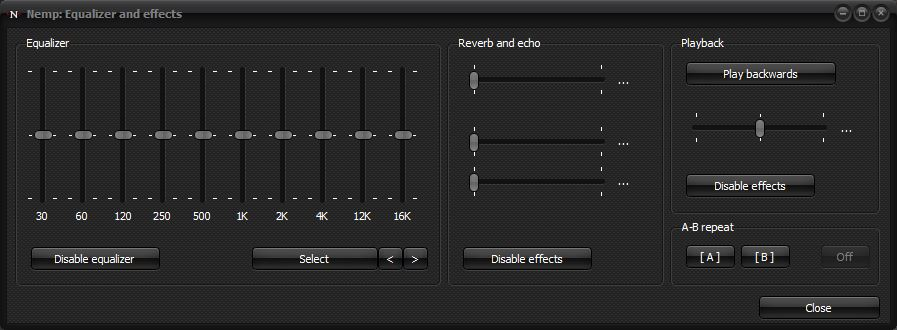
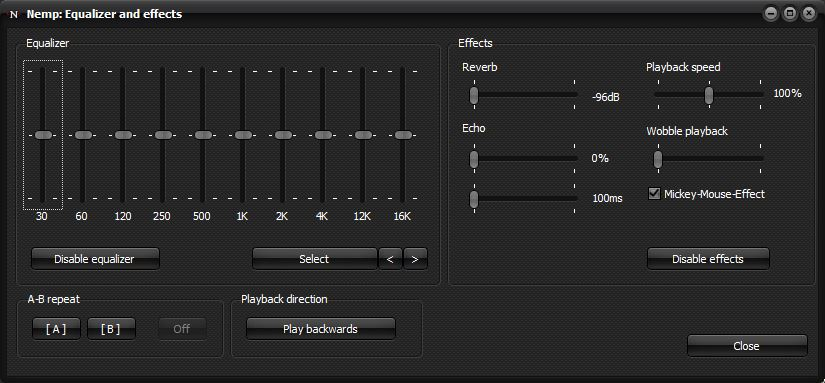
Added effect "wobble playback"

diff --git a/src-help/nemp-help-en.tex b/src-help/nemp-help-en.tex
@@ -299,13 +299,13 @@ With the \textbf{Equalizer} you can adjust the playback. But that's not much mor
 \includegraphics[width=0.6\textwidth]{eq.jpg} 
 \end{center}
 
-The same applies to the \textbf{effects}. A little bit of reverb and echo can be added and the playback speed can be increased or decreased. Whether a Mickey Mouse effect occurs or not can be configured in the settings. To change the behavior, it is necessary to restart playback.
+The same applies to the \textbf{effects}. A little bit of reverb and echo can be added and the playback speed can be increased or decreased. Since Nemp 4.12 the \emph{Micky-Mouse-Effect} can be switched on and off directly. Also, since version 4.12 there's the \gf{Wobble playback} effect, which was previously only implemented as a hidden feature as a warning for low battery.
 
 \begin{tipp}
 Right-clicking on a controller brings it back to the 0-position.
 \end{tipp}
 
-Another gimmick is the \textbf{reverse playing} of the current title, and the \textbf{A-B-repeat}, which repeats a certain section of the current title in a loop. Clicking on A sets the start point, clicking on B sets the end point, and pressing X deletes both so that the playback continues normally.
+Another gimmick is the \textbf{reverse playback} of the current title, and the \textbf{A-B-repeat}, which repeats a certain section of the current title in a loop. Clicking on A sets the start point, clicking on B sets the end point, and pressing X deletes both so that the playback continues normally.
 
 \begin{tipp}
 If you have set the start point A and end point B, you can also move the knobs in the control panel of the main window.
@@ -1058,13 +1058,11 @@ Streams that are not encoded in Mp3 format cannot be recorded.
 
 \subsubsection{Effects}
 \begin{itemize}
-\item \textbf{On changing speed.} When changing the speed, the simple method automatically changes the pitch. That leads to the fast, beeping voices I call \gf{Micky-Mouse effect}. This effect can be prevented if desired. A change only takes effect with the next played title.
-
 \item \textbf{Reset equalizer/effects.} Depending on the setting selected at this point, the effects and equalizer settings will be forgotten when Nemp is restarted and reset to the default setting or not. The default setting retains the equalizer setting, but resets the effects back to \emph{off}.
 
 \item \textbf{Jingles.} Pressing the \texttt{F9} key (and holding it down) will play an additional title. This playback is stopped immediately when the button is released. The volume of the actual playback can be reduced.
 
-\item \textbf{Walkman mode.} A silly little gimmick. Some \gf{older} people might still know the Walkmans (or \emph{portable cassette players} from other brands). They started to flutter when the battery was low, as the tape no longer ran at constant speed. 
+\item \textbf{Walkman mode.} A silly little gimmick. Some \gf{older} people might still know the Walkmans (or \emph{portable cassette players} from other brands). They started to wobble when the battery was low, as the tape no longer ran at constant speed. 
 
 Nemp can simulate this behavior. If Nemp is running on a laptop that is not connected to the power supply, playback will no longer run at constant speed. The effect becomes stronger and stronger as the state of charge decreases. This is actually counterproductive, since it will cost more computing power. But at least it is more noticeable when the battery is weakening and needs to be charged.
 \end{itemize}
@@ -1481,6 +1479,7 @@ The following is a summary of the new features in the individual versions - from
 
 \begin{itemize}
 \item Smoother scanning of metadata: the player remains responsive while searching for new files.
+\item added \emph{wobbling} to effects
 \end{itemize}
 Bugfixes:
 \begin{itemize}
